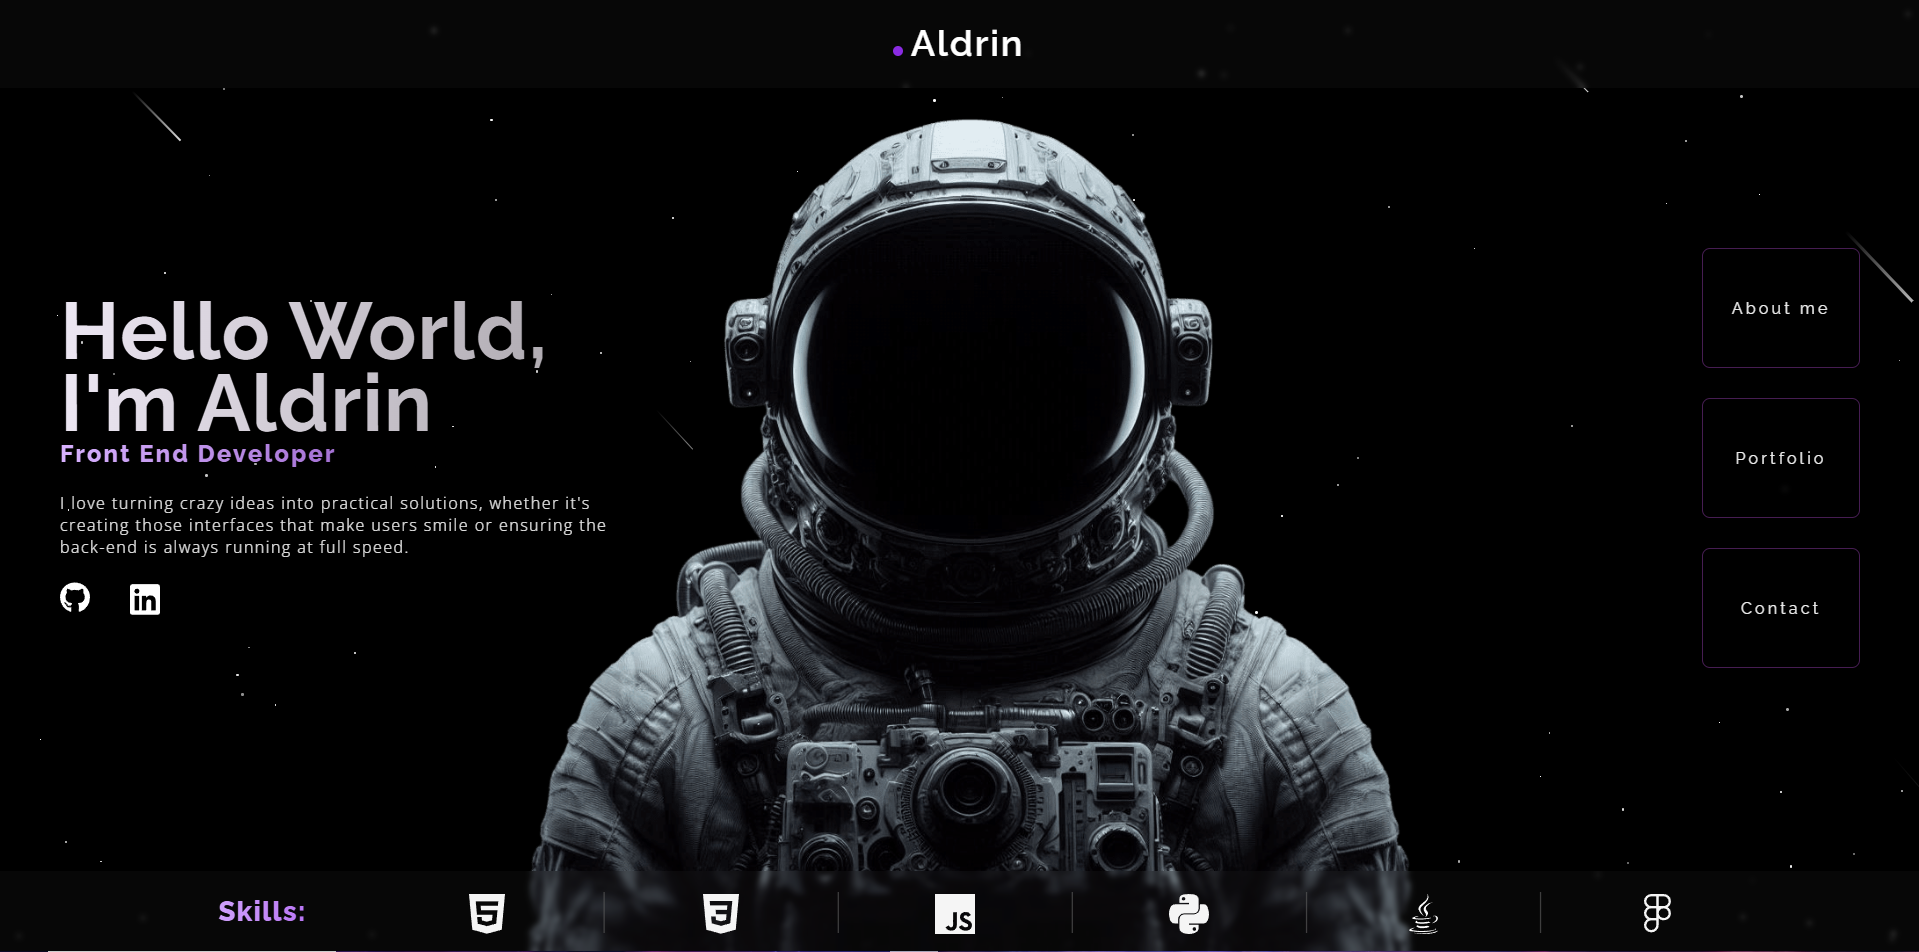
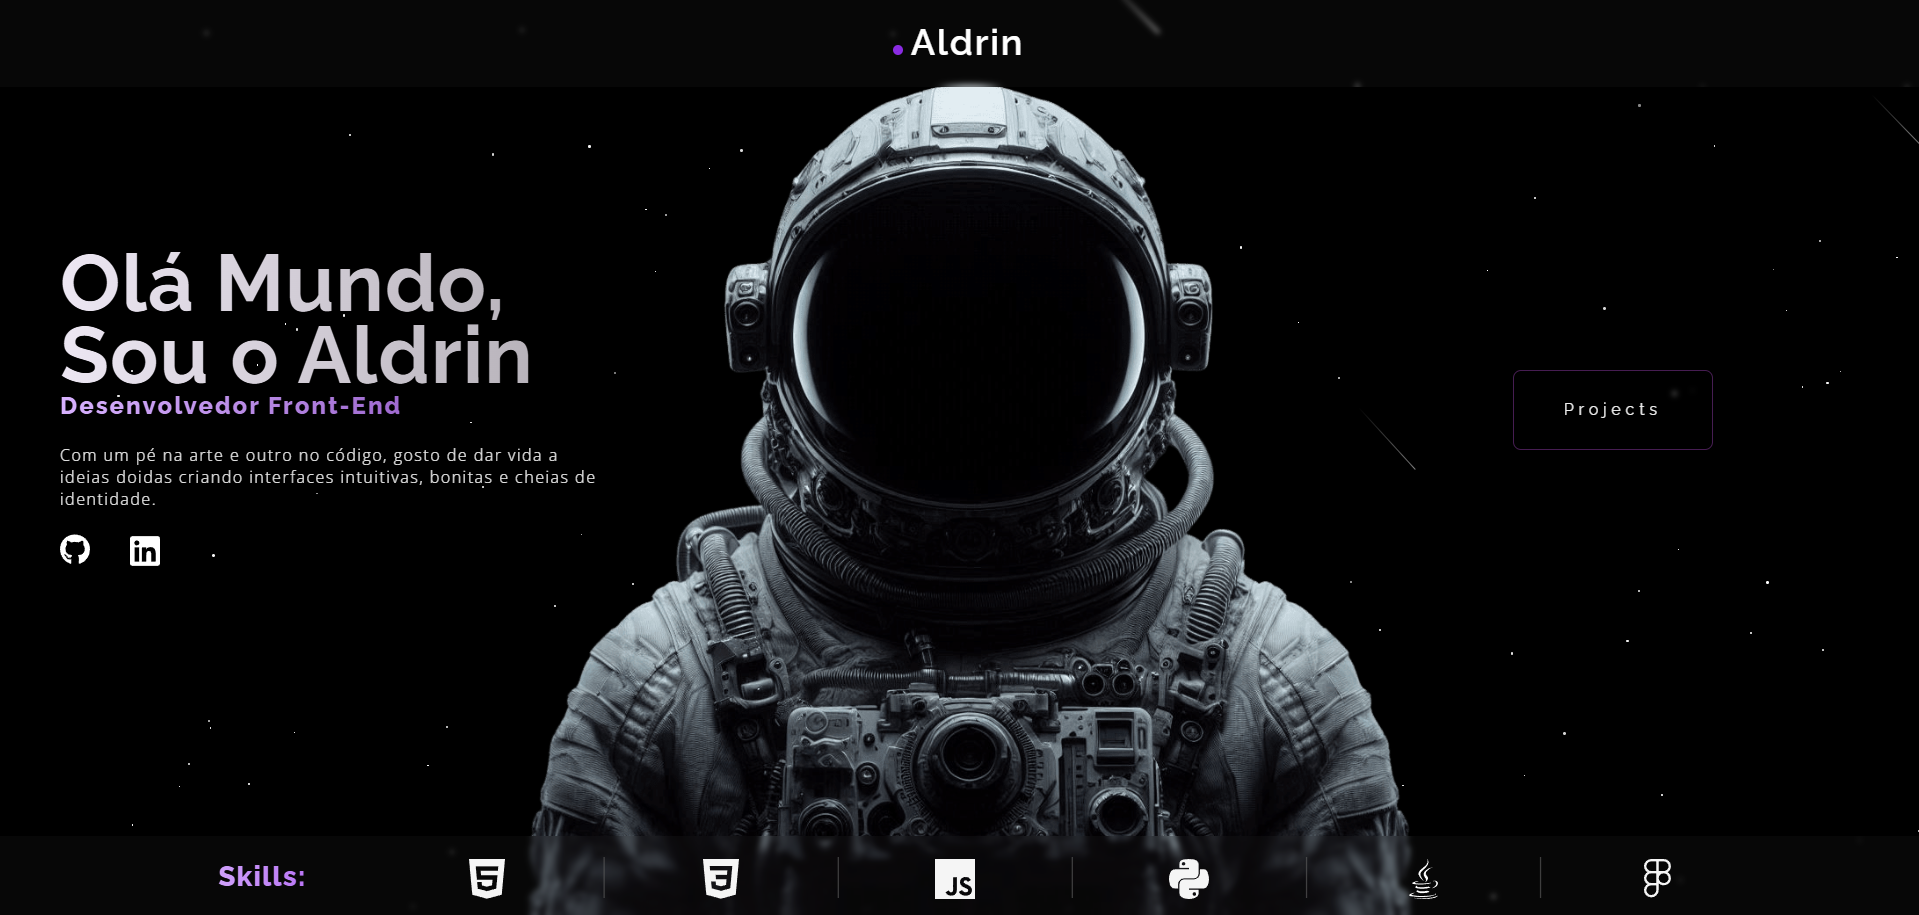
correções no modal projetos

diff --git a/index.html b/index.html
@@ -4,7 +4,7 @@
 <head>
   <meta charset="UTF-8">
   <meta name="viewport" content="width=device-width, initial-scale=1.0, viewport-fit=cover">
-  <title>Aldrin | Front End Developer</title>
+  <title>Aldrin | FrontEnd Developer</title>
   <link rel="stylesheet" href="./css/style.css">
   <link rel="preconnect" href="https://fonts.googleapis.com">
   <link rel="preconnect" href="https://fonts.gstatic.com" crossorigin>
@@ -23,9 +23,9 @@
   <main class="home-container">
     <section class="container">
       <article class="apresentacao">
-        <h2>Hello World, <br>I'm Aldrin </h2>
-        <h3>Front End Developer</h3>
-        <p>I love turning crazy ideas into practical solutions, whether it's creating those interfaces that make users smile or ensuring the back-end is always running at full speed.
+        <h2>Olá Mundo, <br>Sou o Aldrin </h2>
+        <h3>Desenvolvedor Front-End</h3>
+        <p>Com um pé na arte e outro no código, gosto de dar vida a ideias doidas criando interfaces intuitivas, bonitas e cheias de identidade.
         </p>
         <ul class="redes">
           <li>
@@ -41,9 +41,9 @@
         </ul>
       </article>
       <div class="navbar">
-        <button class="open_modal_button" data-target="aboutme">About me</button>
-        <button class="open_modal_button" data-target="portfolio">Portfolio</button>
-        <button class="open_modal_button" data-target="contact">Contact</button>
+        <!-- <button class="open_modal_button" data-target="aboutme">About me</button> -->
+        <button class="open_modal_button" data-target="portfolio">Projetos</button>
+        <!-- <button class="open_modal_button" data-target="contact">Contact</button> -->
       </div>
       <div id="aboutme" class="modal_container">
         <div class="modal">

diff --git a/css/home/navbar.css b/css/home/navbar.css
@@ -5,13 +5,12 @@
   z-index: 10;
   grid-column: 3;
   position: relative;
+
 }
-
-
 
 .open_modal_button {
   font-family: "Raleway", sans-serif;
-  letter-spacing: 0.2rem;
+  letter-spacing: 0.3rem;
   display: flex;
   justify-content: center;
   align-items: center;
@@ -24,12 +23,14 @@
   font-size: 1rem;
   font-weight: 400;
   border-radius: 0.5em;
-  background-color: rgba(65, 65, 65, 0);
+  background-color: rgba(230, 76, 76, 0);
   backdrop-filter: blur(3px);
   border: 1px solid #9b41b673;
-  width: auto;
-  height: 120px;
-  padding: 0;
+  /* min-width: auto; */
+  max-width: 200px;
+  height: 80px;
+  padding-left: 20px;
+  padding-right: 20px;
 }
 
 .open_modal_button:hover {

diff --git a/css/modal/portfolio.css b/css/modal/portfolio.css
@@ -1,5 +1,5 @@
 .modal {
-  background-color: rgba(44, 23, 77, 0.397);
+  background-color: rgba(55, 55, 56, 0.432);
   backdrop-filter: blur(5px);
   width: 100vw;
   height: 50vh;
@@ -20,7 +20,7 @@
   align-items: center;
   justify-content: center;
   gap: 20px;
-  background-color: rgba(46, 21, 87, 0.336);
+  background-color: rgba(8, 8, 8, 0.336);
   border-radius: 5px;
   padding: 20px;
 }

diff --git a/css/home/perfil.css b/css/home/perfil.css
@@ -6,7 +6,7 @@
 .container {
   position: relative;
   display: grid;
-  grid-template-columns: 2fr 3fr 0.5fr;
+  grid-template-columns: 2fr 2fr 1fr;
   justify-content: center;
   align-items: center;
   margin-left: 60px;

diff --git a/css/style.css b/css/style.css
@@ -26,4 +26,4 @@
 /*  modals */
 @import "./modal/aboutme.css";
 @import "./modal/portfolio.css";
-@import "./modal/contact.css";
+/* @import "./modal/contact.css"; */

diff --git a/css/responsive/800px.css b/css/responsive/800px.css
@@ -25,6 +25,7 @@
     justify-content: center;
     width: 100%;
     padding-bottom: 70px;
+    margin: 0px;
   }
 
   .open_modal_button {
